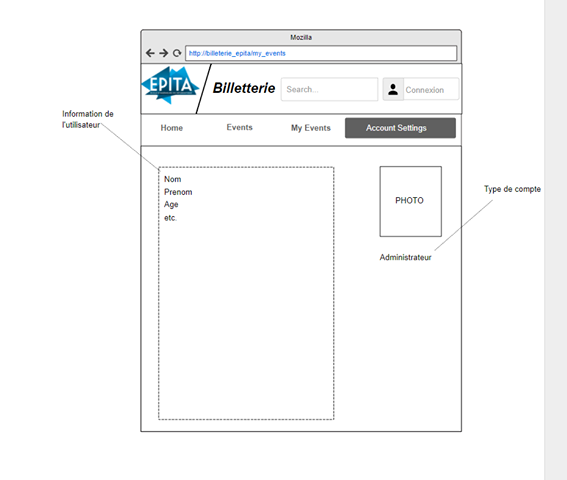
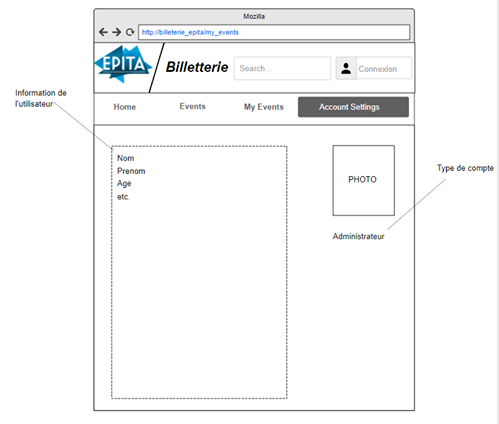
[MISC] fix screenshots croping in misc

Changed region(s): [[0.0301, 0.0, 0.992, 0.9811]]

diff --git a/misc/annexe.md b/misc/annexe.md
@@ -4,15 +4,15 @@
 
 ![alt text](mockup/home.png)
 
-## Evenements
+## Événements
 
 ![alt text](mockup/event.png)
 
-## Mes evenements
+## Mes événements
 
 ![alt text](mockup/my_event.png)
 
-## Information personnel
+## Informations personnelles
 
 ![alt text](mockup/account.png)
 
@@ -24,15 +24,14 @@
 ![alt text](mockup/asso2.png)
 
 
-[alt text](mockup/droit_asso.jpg)
+![alt text](droit/droit_asso.jpg)
 
 ## Application mobile
 
 ![alt text](mockup/appli.png)
 
-
 ![alt text](droit/droit_appli.jpg)
 
-## Droit general
+## Droits généraux
 
 ![alt text](droit/droit_general.jpg)
